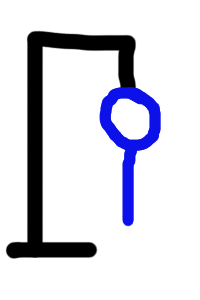
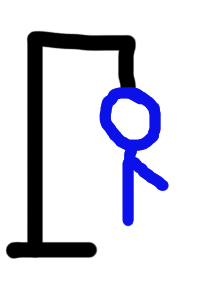
jogo da forca versao alfa

Changed region(s): [[0.66, 0.51, 0.84, 0.66]]

diff --git a/index.html b/index.html
@@ -7,29 +7,111 @@
     <link rel="stylesheet" href="style.css">
 </head>
 <body>
-    <h1>Jogo da Forca</h1>
+    
+    <h1>Jogo da Forca - dias de la semana</h1>
     <img id="imagem" src="img/forca_1.png">
     <div id="exibicao-palavra" ></div>
     <input type="text" id="entrada-letra" placeholder="Chute uma letra" maxlength="1">
-    <button id="btn-chutar">Chutar</button>
+    <button id="btn-chutar" onclick="chutarLetra()">Chutar</button>
 
     <h2>Letras Chutadas</h2>
     <div id="letras-chutadas"></div>
     <div id="mensagem">Você ganhou!</div><br>
-    <button id="botao-reiniciar">Recomeçar</button>
+    <button id="botao-reiniciar" onclick="iniciarJogo()">Recomeçar</button>
 
     <script>
-        const listaPalavra = ['javascript','html','css','youtube'];
+        const listaPalavra = ['lunes','martes','miercules','jueves','viernes','sabado','domingo'];
 
         let palavraEscolhida;
         let exibicaoPalavra;
         let letrasChutadas;
-        let tentativasRestantes
+        let tentativasRestantes;
         let numeroErros;
 
+        function iniciarJogo(){
+           
+           document.getElementById('botao-reiniciar').style.display = 'none';
+           document.getElementById('entrada-letra').display = false;
+           
+
+           
+            palavraEscolhida = listaPalavra[Math.floor(Math.random()*listaPalavra.length)];
+            console.log(palavraEscolhida);
+            exibicaoPalavra = Array(palavraEscolhida.length).fill('_');
+            console.log(exibicaoPalavra);
+            
+            letrasChutadas = [];
+
+            tentativasRestantes = 7;
+
+            numeroErros = 0;
+
+            atualizarExibicao();
+            
+        }
+
+        function atualizarExibicao(){
+            document.getElementById("exibicao-palavra").innerText = exibicaoPalavra.join(' ');
+            document.getElementById("letras-chutadas").innerText = `${letrasChutadas.join(', ')}`;
+
+            document.getElementById('mensagem').innerText = '';
+            document.getElementById("imagem").src = `img/forca_${numeroErros}.png`;
+
+            if(tentativasRestantes === 0){
+                encerrarJogo('VOCÊ MORREU!');
+            }else if(!exibicaoPalavra.includes('_')){
+                encerrarJogo('Parabéns! Você Venceu')
+            }
+
+        }
+
+        function chutarLetra(){
+            const entradaLetra = document.getElementById('entrada-letra');
+            const letra = entradaLetra.value.toLowerCase();
+
+            if(!letra.match(/[a-zà-ùç]/i)){
+                alert('Por favor, insira uma letra valida')
+                return;
+            }
+
+            if(letrasChutadas.includes(letra)){
+                alert('Você ja tentou esta letra. Tente outra')
+                return;
+            }
+
+            letrasChutadas.push(letra)
+
+            if(palavraEscolhida.includes(letra)){
+                for (let i=0; i < palavraEscolhida.length; i++){
+                    if(palavraEscolhida[i]=== letra){
+                        exibicaoPalavra[i] = letra;
+                    }
+                }
+            }else{
+                tentativasRestantes--;
+                numeroErros++;
+            }
+
+
+            entradaLetra.value = '';
+
+            atualizarExibicao();
+
+        }
+
+       function encerrarJogo(mensagem){
+        document.getElementById('entrada-letra').disabled = true;
+
+        document.getElementById('mensagem').style.display = 'block';
+
+        document.getElementById('mensagem').innerText = mensagem;
+
+        document.getElementById('botao-reiniciar').style.display = 'block';
+
+
+       }
         
-
-
+        window.load = iniciarJogo();
     </script>
 </body>
 </html>

diff --git a/style.css b/style.css
@@ -6,8 +6,14 @@ body {
 
 #exibicao-palavra{
     font-size: 3em;
-    margin-bottom: 30px;
+    margin-bottom: 10px;
+    margin-top: -20px;
  
+}
+
+h1{
+    margin-top: -20px;
+    margin-bottom: -15px;
 }
 
 #botao-reiniciar{
@@ -18,11 +24,13 @@ body {
     padding: 10px 20px;
     border-radius: 5px;
     cursor: pointer;
+    margin: auto;
 }
 
 #botao-reiniciar:hover {
 
     background-color:#3c823e ;
+
 
 }
 
@@ -36,3 +44,5 @@ body {
 #mensagem{
     display: none;
 }
+
+
